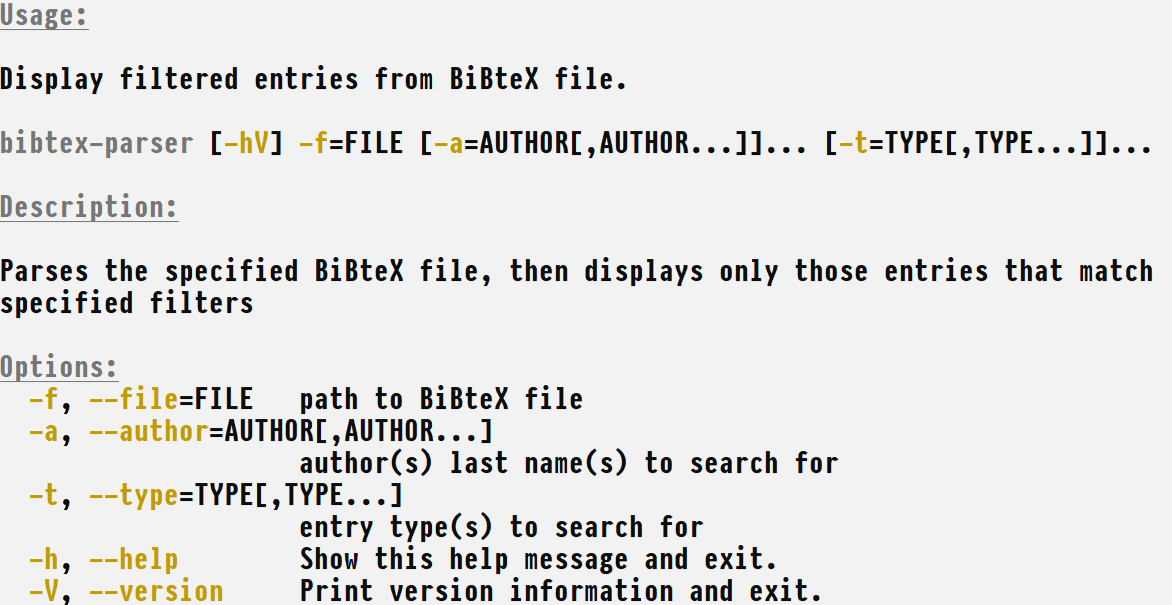
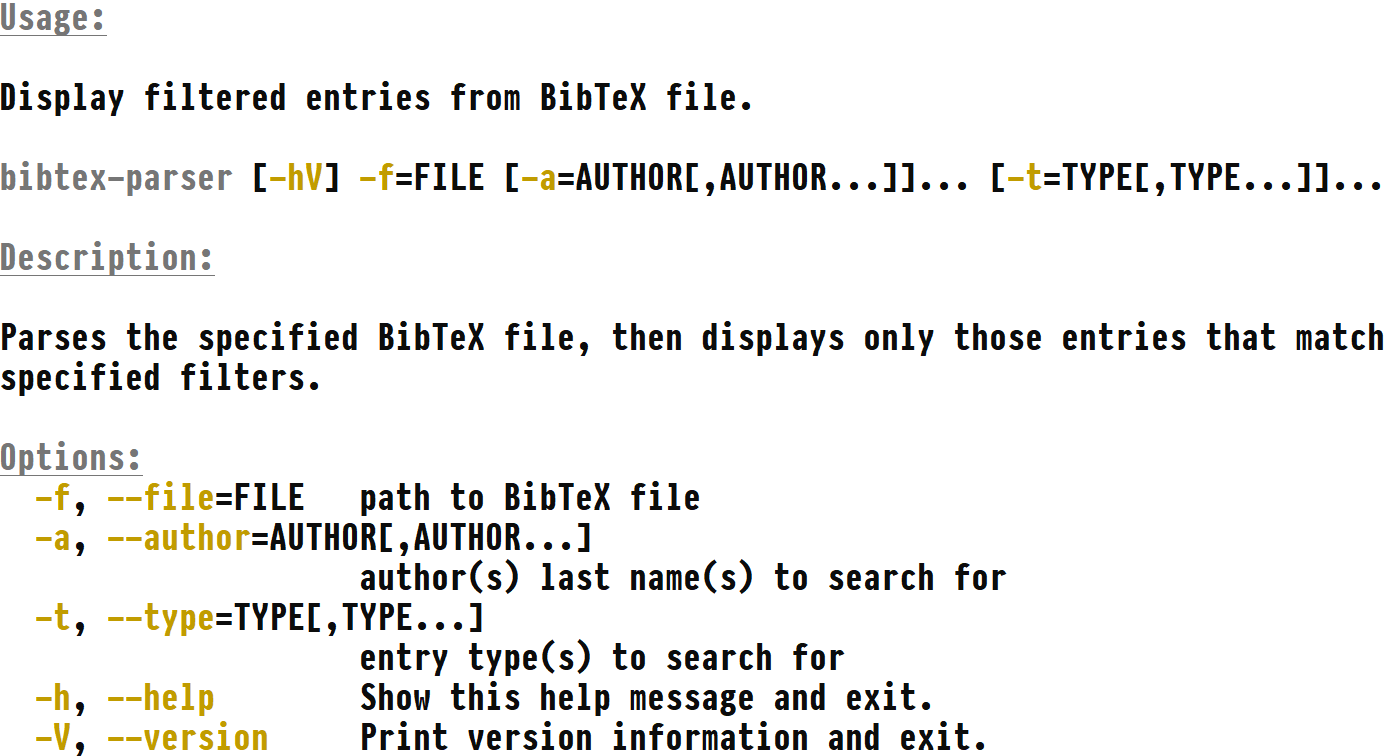
fix usage image background

diff --git a/src/com/szczygiel/bibtex/Main.java b/src/com/szczygiel/bibtex/Main.java
@@ -33,7 +33,7 @@ import java.util.stream.Collectors;
         optionListHeading = "%n@|bold,underline Options:|@%n",
         header = "Display filtered entries from BibTeX file.",
         description = "Parses the specified BibTeX file, then displays only those entries " +
-                "that match specified filters")
+                "that match specified filters.")
 public class Main implements Runnable {
     /*
     This program uses picocli package to handle program arguments.

diff --git a/README.md b/README.md
@@ -21,4 +21,5 @@
 java -jar bibtex-parser.jar -f "file.bib" -a "Author1,Author2" -t "book,article"
 ```
 
+### Command help
 ![Usage](usage.png)
